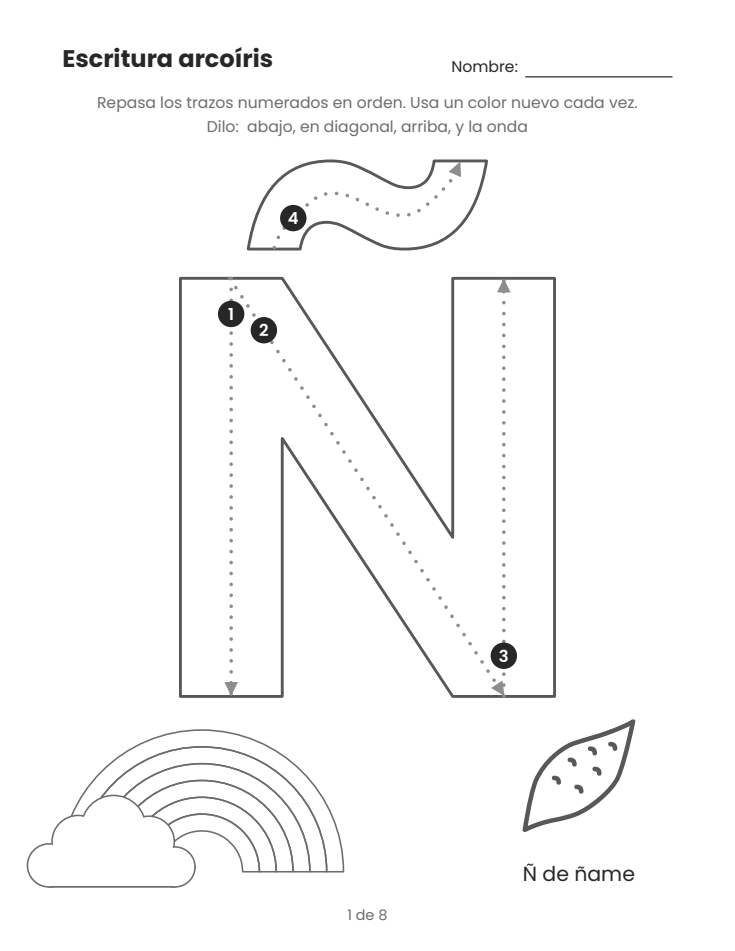
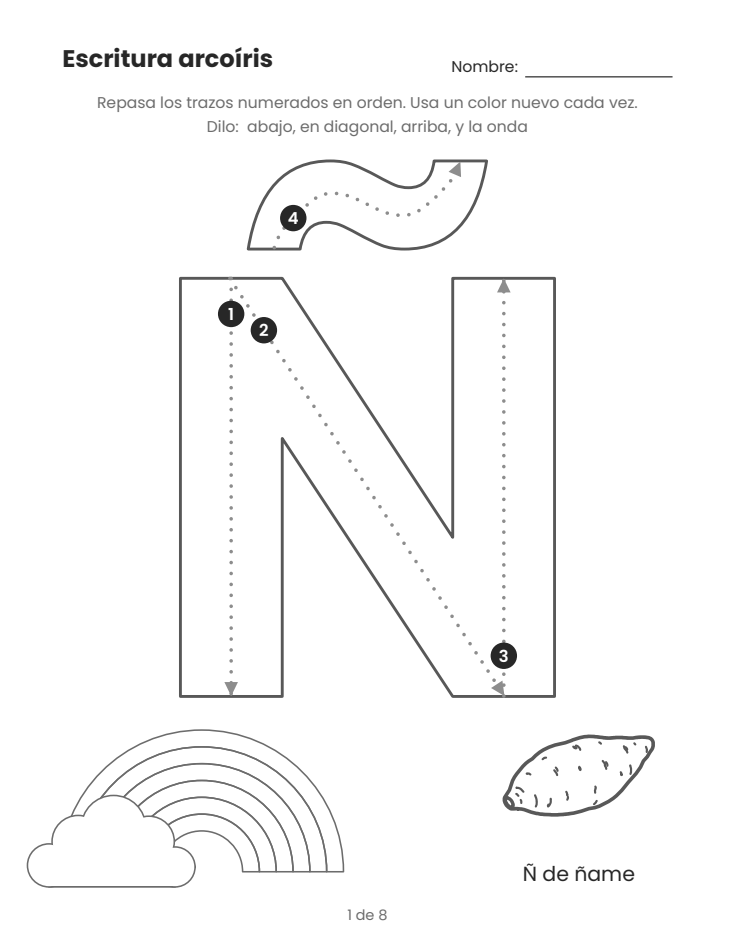
Ñ's sweet potato traced from a Canva drawing
- scripts/trace_picture.py turns a line drawing into vector lines drawn
  at the OpenMoji pictures' weight; draw_traced() draws them
- assets/pictures/ holds the source and traced file, with a README

Changed region(s): [[0.6884, 0.7624, 0.898, 0.8843]]

diff --git a/scripts/make_rainbow.py b/scripts/make_rainbow.py
@@ -467,87 +467,46 @@ def draw_cloud(c, x, y_base, w):
     return (left - lw, y_base - lw, right + lw, top + lw)
 
 
-def draw_sweet_potato(c, cx, cy):
-    """Sweet potato (ñame) in the OpenMoji line style, whole, with a round
-    slice in front. OpenMoji's own read as a leaf (thin, pointed, symmetric,
-    dots like veins); a short, plump version with rings read as a croissant
-    or a caterpillar. What reads as a sweet potato: LONG (about three times
-    as long as wide), a gentle bend, a lumpy outline narrowing into thin
-    wavy root tails, a few short creases, and a cut slice showing its
-    inside, which says "vegetable"."""
-    lw = 3.0
+PICTURES = os.path.join(os.path.dirname(FONTS), "pictures")
+
+
+def draw_traced(c, cx, cy, name, mark_width=1.8):
+    """A picture traced from a line drawing by scripts/trace_picture.py
+    (assets/pictures/<name>.json): its outline at the OpenMoji pictures'
+    line weight, the marks inside it thinner."""
+    import json
+    with open(os.path.join(PICTURES, name + ".json"), encoding="utf-8") as f:
+        data = json.load(f)
+    w = min(PIC_MAX_W, PIC_MAX_H * data["aspect"])
+    h = w / data["aspect"]
+    x0, y0 = cx - w / 2, cy - h / 2
+
+    def path(points, closed, width):
+        c.setLineWidth(width)
+        p = c.beginPath()
+        p.moveTo(x0 + points[0][0] * w, y0 + points[0][1] * h)
+        for px, py in points[1:]:
+            p.lineTo(x0 + px * w, y0 + py * h)
+        if closed:
+            p.close()
+        c.drawPath(p, stroke=1, fill=0)
+
     c.setStrokeColor(LINE)
     c.setLineCap(1)
     c.setLineJoin(1)
     c.setDash([], 0)
-    half_len, fat, arch, tilt = 50.0, 17.0, 7.0, math.radians(18)
-    ox, oy = cx + 6, cy + 14                     # the whole one, up and right
+    path(data["outline"], True, 3.0)
+    for m in data["marks"]:
+        path(m, False, mark_width)
+    return (x0 - 1.5, y0 - 1.5, x0 + w + 1.5, y0 + h + 1.5)
 
-    def turn(x, y):
-        return (ox + x * math.cos(tilt) - y * math.sin(tilt),
-                oy + x * math.sin(tilt) + y * math.cos(tilt))
 
-    def spine(s):
-        return (half_len * s, arch * (1 - s * s))
-
-    def normal(s):
-        dx, dy = half_len, -2 * arch * s
-        m = math.hypot(dx, dy)
-        return (-dy / m, dx / m)
-
-    def width(s):
-        u = (s + 1) / 2
-        return fat * (math.sin(math.pi * u) ** 0.75) * (1.0 + 0.15 * (u - 0.5))
-
-    def edge(s, side, lump=True):
-        (x, y), (nx, ny) = spine(s), normal(s)
-        w = width(s) * ((1 + 0.06 * math.sin(8 * s + side) + 0.03 * math.sin(15 * s)) if lump else 1)
-        return turn(x + side * nx * w, y + side * ny * w)
-
-    def polyline(points, width_pt):
-        c.setLineWidth(width_pt)
-        q = c.beginPath()
-        q.moveTo(*points[0])
-        for r in points[1:]:
-            q.lineTo(*r)
-        c.drawPath(q, stroke=1, fill=0)
-
-    ss = np.linspace(-0.98, 0.98, 80)
-    outline = [edge(s, 1) for s in ss] + [edge(s, -1) for s in ss[::-1]]
-    p = c.beginPath()
-    p.moveTo(*outline[0])
-    for q in outline[1:]:
-        p.lineTo(*q)
-    p.close()
-    c.setLineWidth(lw)
-    c.setFillColor(WHITE)
-    c.drawPath(p, stroke=1, fill=1)
-
-    # a few short creases on the skin, from the top edge part way down
-    for s0 in (-0.45, 0.0, 0.42):
-        crease = []
-        for k in np.linspace(0.75, 0.15, 6):
-            (x, y), (nx, ny) = spine(s0 + 0.06 * (1 - k)), normal(s0)
-            crease.append(turn(x + nx * width(s0) * k, y + ny * width(s0) * k))
-        polyline(crease, 2.0)
-
-    # thin wavy root tails at both ends
-    for sign in (1, -1):
-        x0, y0 = spine(sign * 0.98)
-        polyline([turn(x0 + sign * 2.3 * k, y0 - 0.4 * k + 1.5 * math.sin(1.5 * k))
-                  for k in np.linspace(0, 6, 12)], 2.0)
-
-    # a round slice in front, lower left: skin ring and the flesh inside
-    sx, sy, r = cx - 30, cy - 22, 17.0
-    c.setLineWidth(lw)
-    c.setFillColor(WHITE)
-    c.ellipse(sx - r, sy - r * 0.92, sx + r, sy + r * 0.92, stroke=1, fill=1)
-    c.setLineWidth(1.8)
-    c.ellipse(sx - r * 0.68, sy - r * 0.62, sx + r * 0.68, sy + r * 0.62, stroke=1, fill=0)
-
-    xs = [q[0] for q in outline] + [sx - r]
-    ys = [q[1] for q in outline] + [sy - r]
-    return (min(xs) - 4, min(ys) - lw, max(xs) + 16, max(ys) + lw)
+def draw_sweet_potato(c, cx, cy):
+    """Sweet potato (ñame), traced from a Canva drawing made with the
+    family's nonprofit Canva account (assets/pictures/sweet-potato-canva.png).
+    OpenMoji's own read as a leaf, and two drawn in code read as a pea pod
+    and a croissant."""
+    return draw_traced(c, cx, cy, "sweet-potato")
 
 
 DRAWINGS = {}       # picture name -> drawing function; filled in below

diff --git a/scripts/trace_picture.py b/scripts/trace_picture.py
@@ -1,0 +1,85 @@
+"""Turn a black-and-white line drawing (PNG) into vector lines for a page
+picture, so it prints in the same line style as the OpenMoji pictures.
+
+    python scripts/trace_picture.py assets/pictures/sweet-potato-canva.png assets/pictures/sweet-potato.json
+
+Pasting the picture in as an image doesn't work: at its printed size (about
+124 pt wide) the drawing's thin lines nearly disappear. Instead:
+
+- outline: the outer edge of the whole shape, as one closed line. It is
+  drawn at the same weight as the OpenMoji pictures.
+- marks: every line inside the shape, thinned to its centre line. They are
+  drawn thinner.
+
+Coordinates are fractions of the shape's width (x) and height (y, upward).
+"""
+
+import json
+import sys
+
+import cv2
+import numpy as np
+from skimage.morphology import skeletonize
+
+
+def order_path(pixels):
+    """Order a thin (skeleton) piece's pixels into one line, end to end."""
+    pts = set(map(tuple, pixels))
+
+    def neighbours(p):
+        return [(p[0] + dy, p[1] + dx) for dy in (-1, 0, 1) for dx in (-1, 0, 1)
+                if (dy or dx) and (p[0] + dy, p[1] + dx) in pts]
+
+    ends = [p for p in pts if len(neighbours(p)) == 1]
+    start = ends[0] if ends else next(iter(pts))
+    path, seen, cur = [start], {start}, start
+    while True:
+        nxt = [q for q in neighbours(cur) if q not in seen]
+        if not nxt:
+            break
+        cur = nxt[0]
+        seen.add(cur)
+        path.append(cur)
+    return path
+
+
+def trace(png):
+    grey = cv2.imread(png, cv2.IMREAD_GRAYSCALE)
+    ink = (grey < 128).astype(np.uint8)
+
+    # the whole shape: everything not reachable from the outside
+    flood = ink.copy() * 255
+    mask = np.zeros((flood.shape[0] + 2, flood.shape[1] + 2), np.uint8)
+    cv2.floodFill(flood, mask, (0, 0), 128)
+    shape = (flood != 128).astype(np.uint8)
+    cs, _ = cv2.findContours(shape, cv2.RETR_EXTERNAL, cv2.CHAIN_APPROX_NONE)
+    outer = max(cs, key=cv2.contourArea)
+    x, y, w, h = cv2.boundingRect(outer)
+    outline = cv2.approxPolyDP(outer, 0.8, True)[:, 0, :]
+
+    # the marks: centre lines of the ink, minus the outline itself
+    near_edge = np.zeros_like(ink)
+    cv2.drawContours(near_edge, [outer], -1, 1, thickness=9)
+    skel = skeletonize(ink.astype(bool)) & ~near_edge.astype(bool)
+    n, labels = cv2.connectedComponents(skel.astype(np.uint8), connectivity=8)
+    marks = []
+    for k in range(1, n):
+        pix = np.argwhere(labels == k)
+        if len(pix) < 6:
+            continue                      # specks
+        path = order_path(pix)
+        line = np.array([(c, r) for r, c in path], np.int32).reshape(-1, 1, 2)
+        line = cv2.approxPolyDP(line, 0.8, False)[:, 0, :]
+        marks.append(line)
+
+    def norm(points):
+        return [[round((px - x) / w, 4), round(1 - (py - y) / h, 4)] for px, py in points]
+
+    return {"aspect": round(w / h, 4), "outline": norm(outline), "marks": [norm(m) for m in marks]}
+
+
+if __name__ == "__main__":
+    data = trace(sys.argv[1])
+    with open(sys.argv[2], "w", encoding="utf-8") as f:
+        json.dump(data, f)
+    print(f"outline {len(data['outline'])} points, {len(data['marks'])} marks, aspect {data['aspect']}")

diff --git a/assets/pictures/README.md b/assets/pictures/README.md
@@ -1,0 +1,18 @@
+# Pictures drawn for the pages
+
+Most pictures come from the OpenMoji font (see `../fonts/README.md`). These are the exceptions:
+
+- **sweet-potato-canva.png:** a sweet potato (ñame) for the Spanish Ñ page. It was made with Canva's AI image tool on a nonprofit Canva account, from the prompt "A whole sweet potato. Simple black outline coloring-page drawing, white background, no color, no scenery." OpenMoji's own sweet potato looked like a leaf.
+- **sweet-potato.json:** the same drawing as vector lines, made by `scripts/trace_picture.py`. The page draws from this file, so the outline matches the OpenMoji pictures' line weight.
+
+To trace a new picture:
+
+```
+python scripts/trace_picture.py assets/pictures/NAME.png assets/pictures/NAME.json
+```
+
+Then add a small drawing function in `make_rainbow.py` that calls `draw_traced(c, cx, cy, "NAME")`, add it to `DRAWINGS`, and use its name as the picture in the `LETTERS` table.
+
+**What makes a good source drawing:** black lines on white, one object, no shading, and lines that don't touch the edge of the image.
+
+The xylophone (X) is drawn directly in code (`draw_xylophone`).
